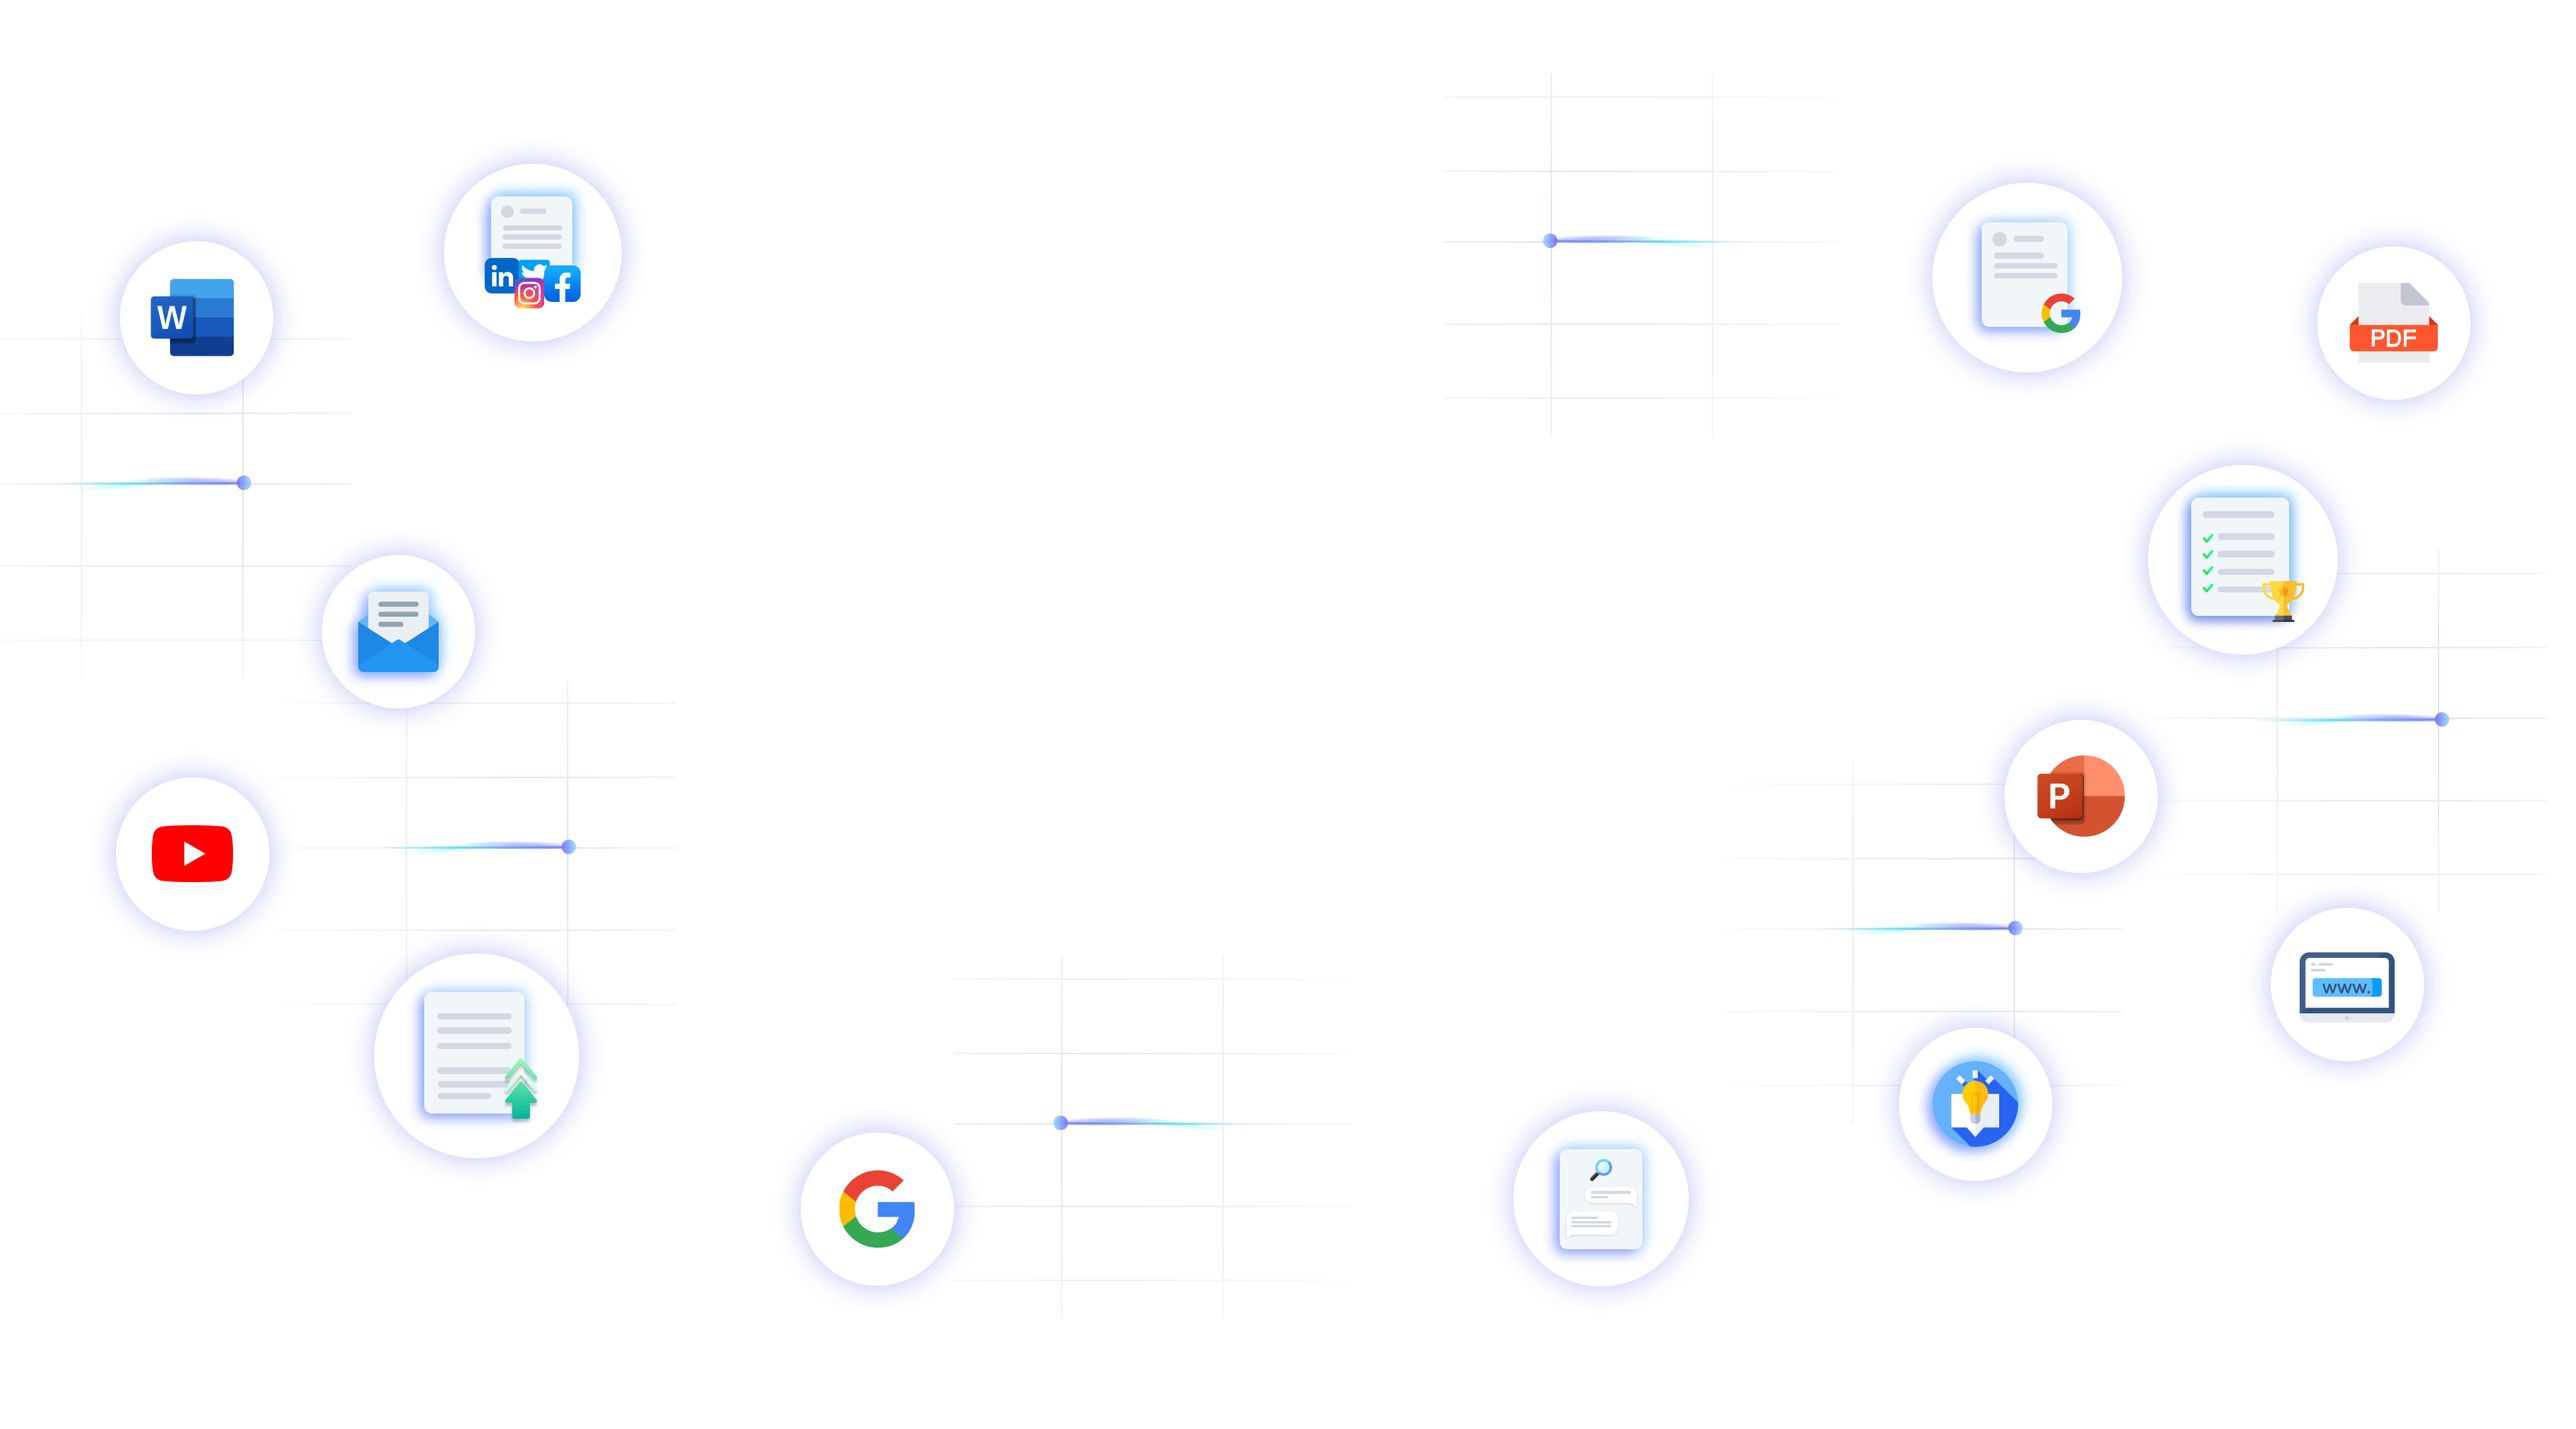
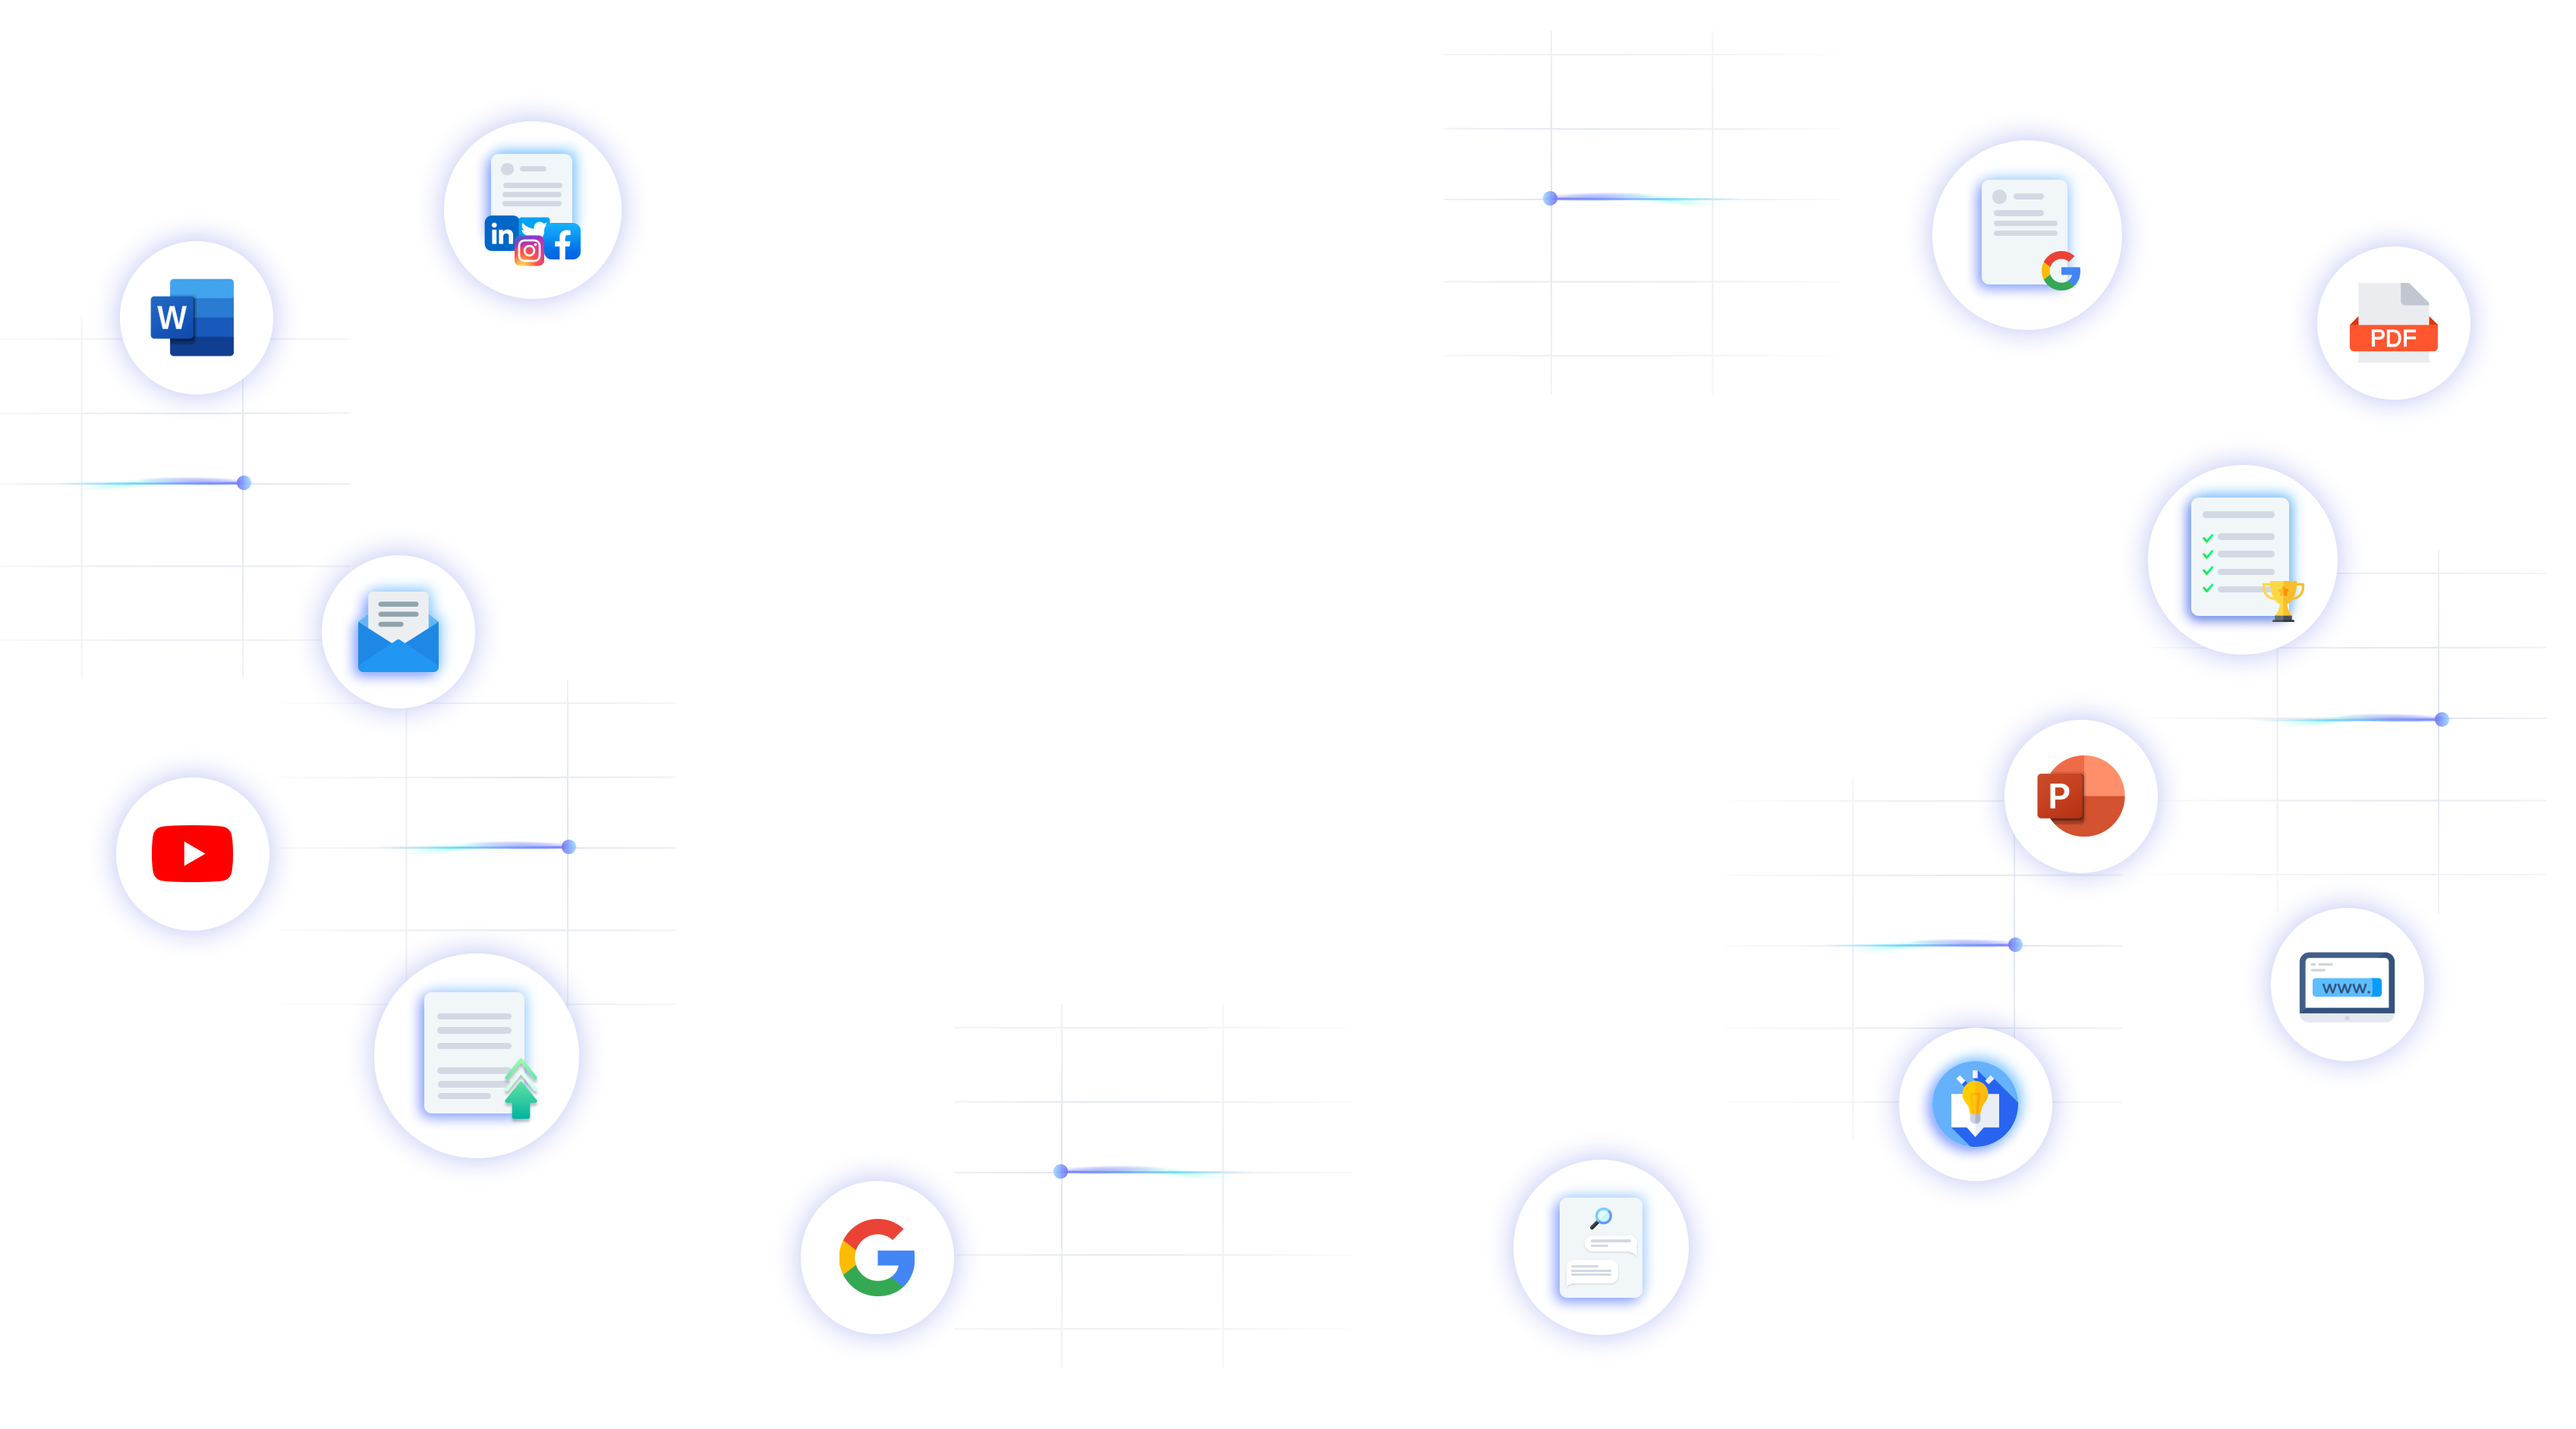
AB landing test

diff --git a/pages/main.tsx b/pages/main.tsx
@@ -14,7 +14,7 @@ import Loading from '@/components/Common/Loading';
 import { useRouter } from 'next/router';
 import { BsFillGiftFill } from 'react-icons/bs';
 import { useEffect, useState } from 'react';
-import webBackground from "../public/images/webBackground.png";
+import webBackground from "../public/images/newbg.png";
 import Plans from '@/components/Landing/Plans';
 import Space from '@/components/Docs/common/Space';
 import Stats from '@/components/Landing/Stats';
@@ -65,7 +65,7 @@ const Homepage = () => {
           <Loading />
           <Navbar />
           <Background>
-            {!mobile && <Image style={{ width: "100%", opacity: 0.4}} src={webBackground} alt={'preview'}></Image>}
+            {!mobile && <Image style={{ width: "100%", opacity: 0.5}} src={webBackground} alt={'preview'}></Image>}
           </Background>
           <HeroSection>
               <Centered><SlideBottom><h1 style={{lineHeight: "1.3"}} className='text-[8vw] px-4 inline-block lg:text-7xl max-w-5xl font-black text-center'>Marketing content based {!mobile && <br />}on your {!mobile && <TypewriterSection />}</h1></SlideBottom></Centered>
@@ -203,7 +203,7 @@ const Background = styled.div`
     width: 100vw;
     height: 100vh;
     z-index: 0;
-    top: -6rem;
+    top: 3rem;
     left: 0;
   `
 
